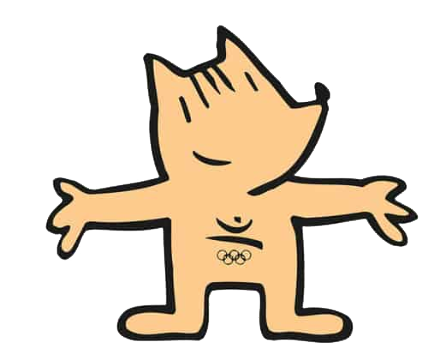
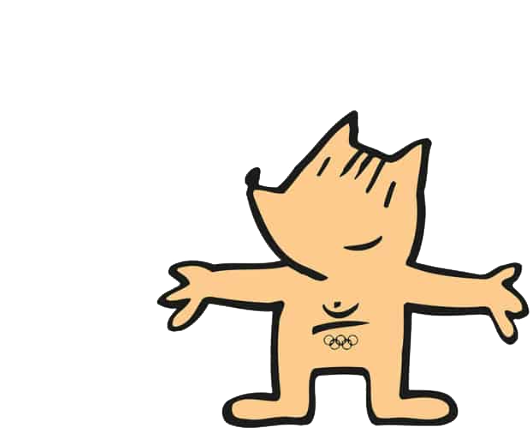
Made Cobi talk

diff --git a/index.html b/index.html
@@ -12,37 +12,25 @@
 
 <link rel="stylesheet" type="text/css" href="css/style.css">
 
-<script type="text/javascript">
-var hidden=true;
-function toggleText() {
+<script src="JavaScript/monyeco.js"></script>
 
-  let myElements = document.querySelectorAll(".txt1");
-  if(hidden){
-    hidden = false;
-    for (let i = 0; i < myElements.length; i++) {
-      myElements[i].style.textIndent = "0%";
-      myElements[i].style.whiteSpace = "normal";
-      myElements[i].style.overflow = "visible";
-    }
-  }
-  else {
-    hidden = true;
-    for (let i = 0; i < myElements.length; i++) {
-      myElements[i].style.textIndent = "100%";
-      myElements[i].style.whiteSpace = "nowrap";
-      myElements[i].style.overflow = "hidden";
-    }
-  };
-};
-</script>
 
 </head>
 
 <body>
 
 <div class="cobi_caixa">
-<img id="cobi" onclick="toggleText()" width="220" height="180" src="cobi_general.png"/>
+<img id="cobi2" width="266" height="216" src="cobi_general_2.png"/>
 </div>
+
+<div class="cobi_caixa">
+<img id="cobi3" width="266" height="216" src="cobi_general_3.png"/>
+</div>
+
+<div class="cobi_caixa">
+<img id="cobi" onclick="toggleText()" onmouseover="fade_in()" onmouseleave="fade_out()" width="266" height="216" src="cobi_general.png"/>
+</div>
+
 
 <div class='some-page-wrapper'>
 

diff --git a/JavaScript/monyeco.js b/JavaScript/monyeco.js
@@ -1,3 +1,47 @@
+var hidden=true;
+
 function toggleText() {
-    document.getElementById("txt1").style.color="red";
+
+  let myElements = document.querySelectorAll(".txt1");
+  if(hidden){
+    hidden = false;
+    for (let i = 0; i < myElements.length; i++) {
+      myElements[i].style.textIndent = "0%";
+      myElements[i].style.whiteSpace = "normal";
+      myElements[i].style.overflow = "visible";
+    }
+    fade_in()
+  }
+  else {
+    hidden = true;
+    for (let i = 0; i < myElements.length; i++) {
+      myElements[i].style.textIndent = "200%";
+      myElements[i].style.whiteSpace = "nowrap";
+      myElements[i].style.overflow = "hidden";
+    }
+    fade_in()
+  };
 };
+
+/*  Text del monyeco */
+function fade_out() {
+	let cobi2 = document.getElementById("cobi2");
+	let cobi3 = document.getElementById("cobi3");
+	cobi2.style.visibility = "hidden";
+	cobi3.style.visibility = "hidden";
+	console.log("Out")
+}
+
+function fade_in() {
+	let cobi2 = document.getElementById("cobi2");
+	let cobi3 = document.getElementById("cobi3");
+	if(hidden){
+		cobi2.style.visibility = "visible";
+		cobi3.style.visibility = "hidden";
+	}else{
+		cobi2.style.visibility = "hidden";
+		cobi3.style.visibility = "visible";
+	}
+	console.log("In")
+}
+

diff --git a/css/style.css b/css/style.css
@@ -72,3 +72,15 @@ a:hover {
   white-space: nowrap;
   overflow: hidden;
 }
+
+#cobi{
+  visibility: show;
+}
+
+#cobi2{
+  visibility: hidden;
+}
+
+#cobi3{
+  visibility: hidden;
+}
